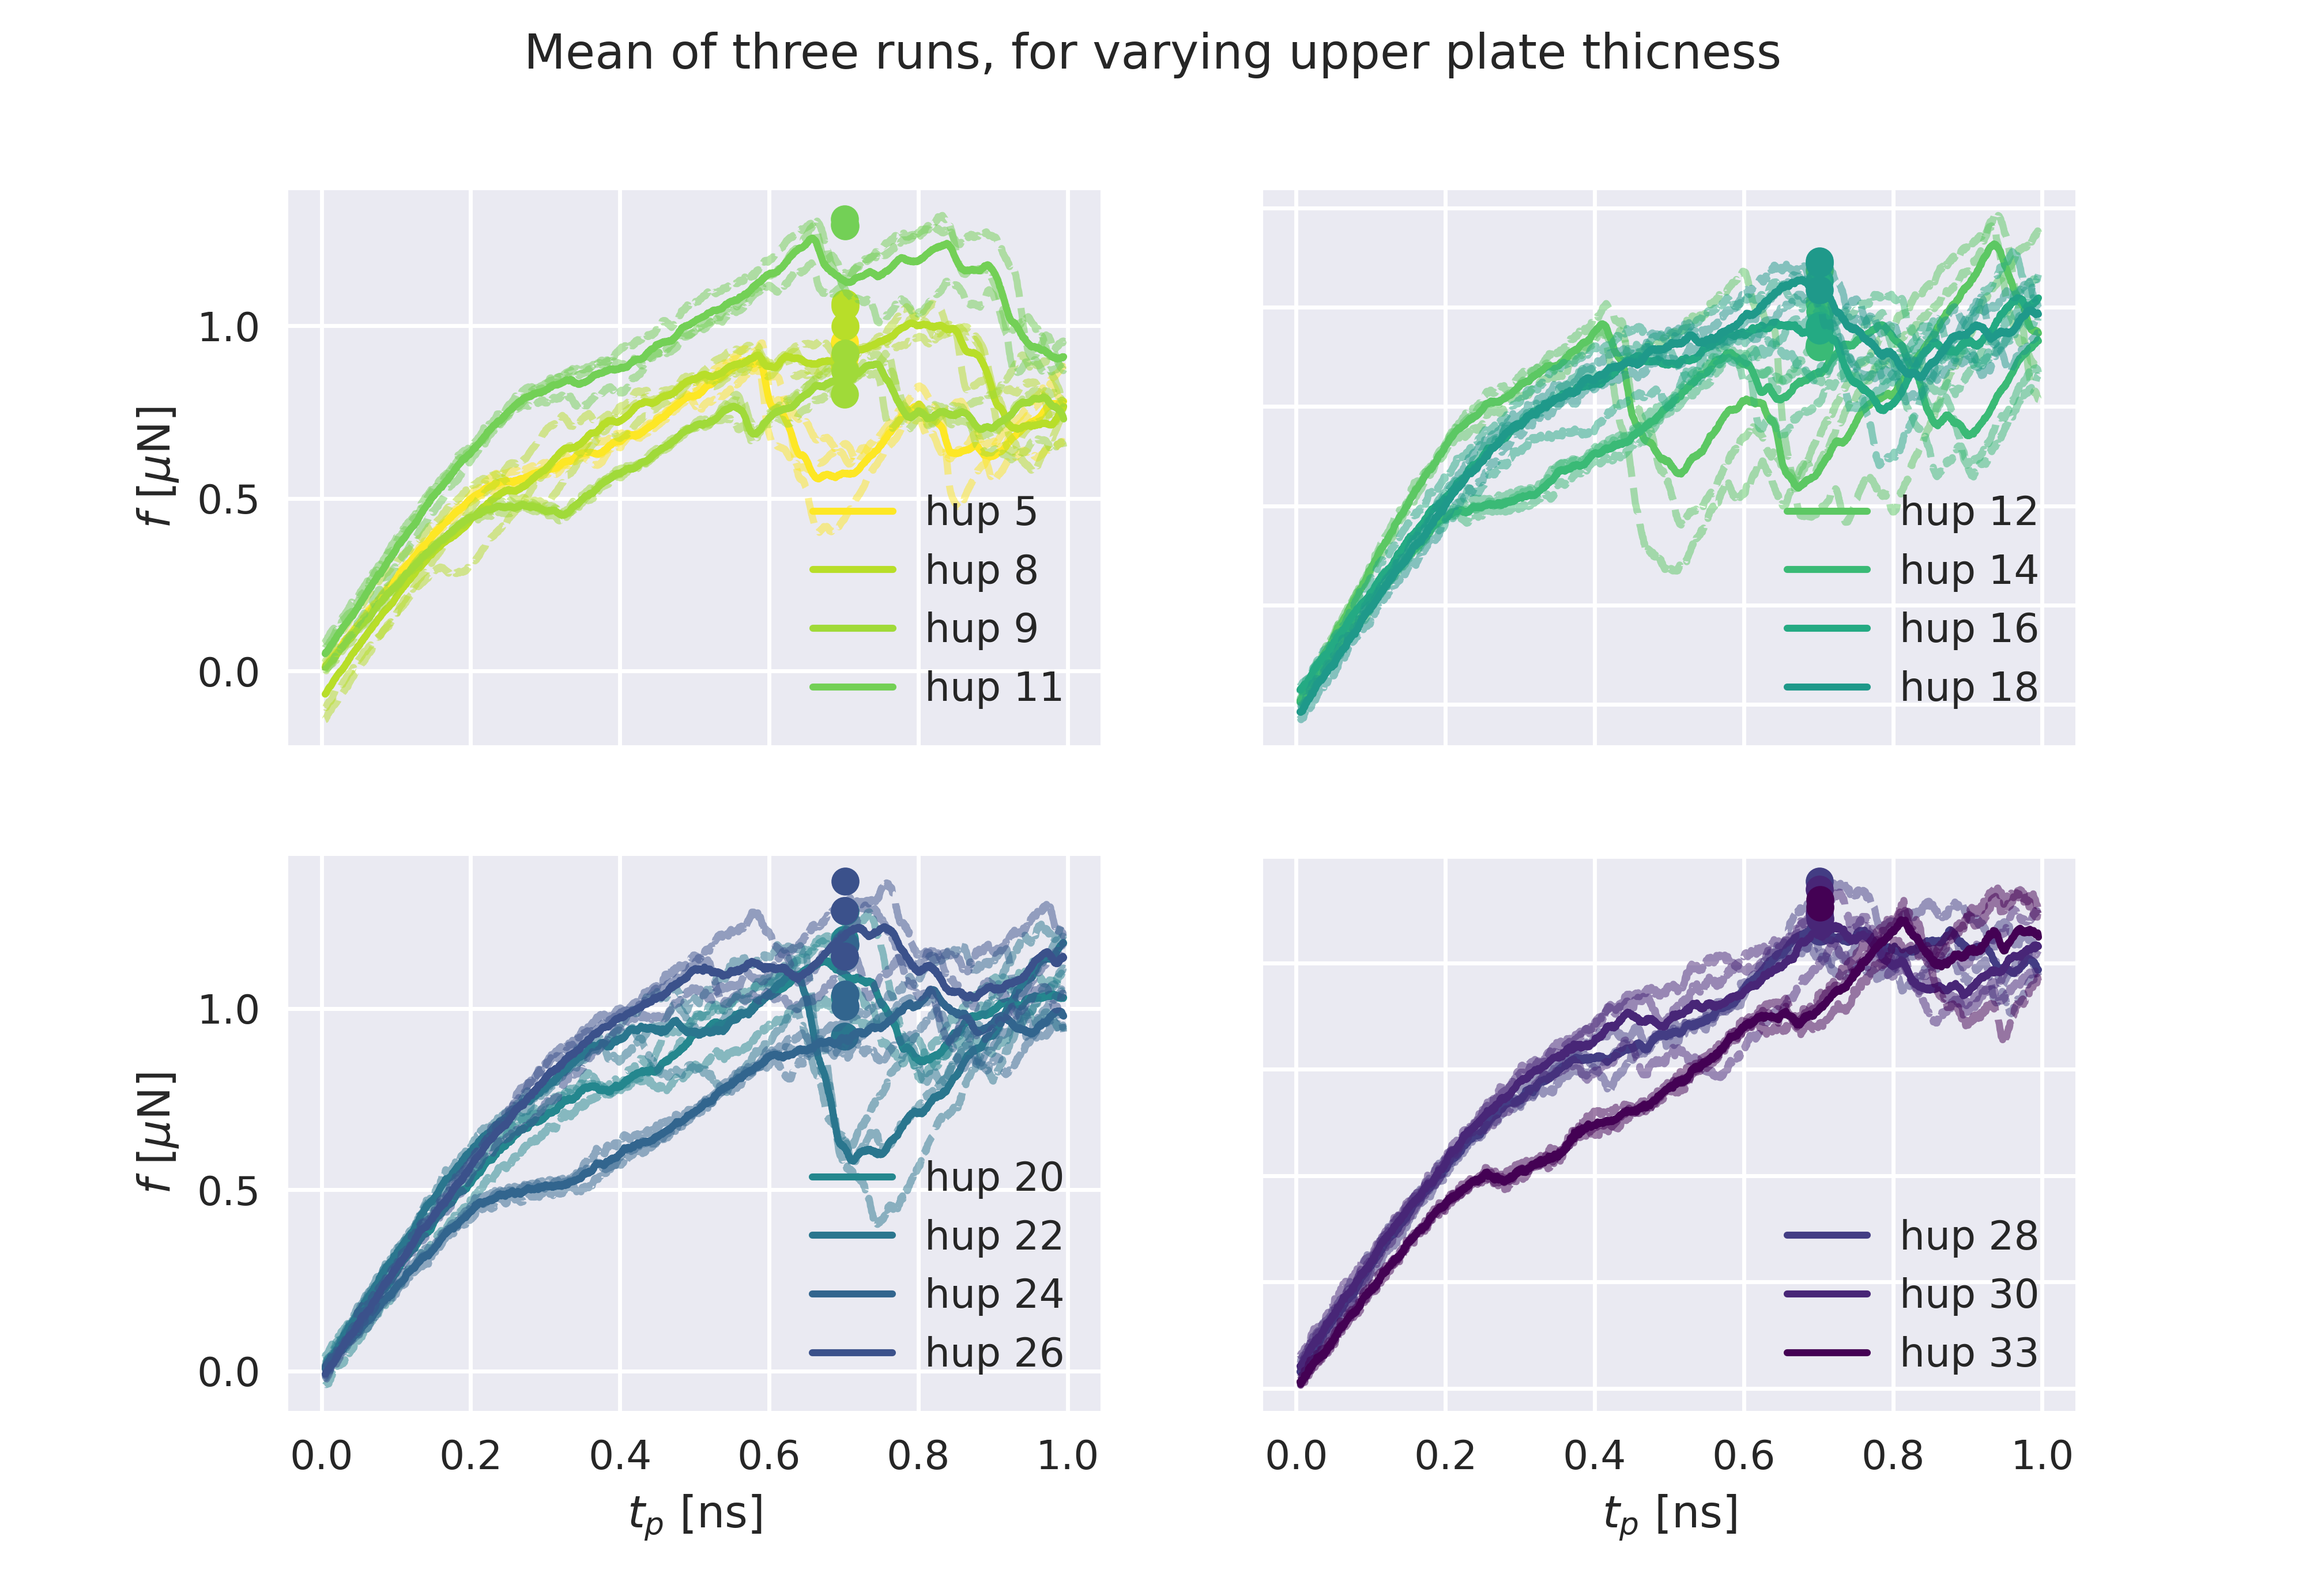
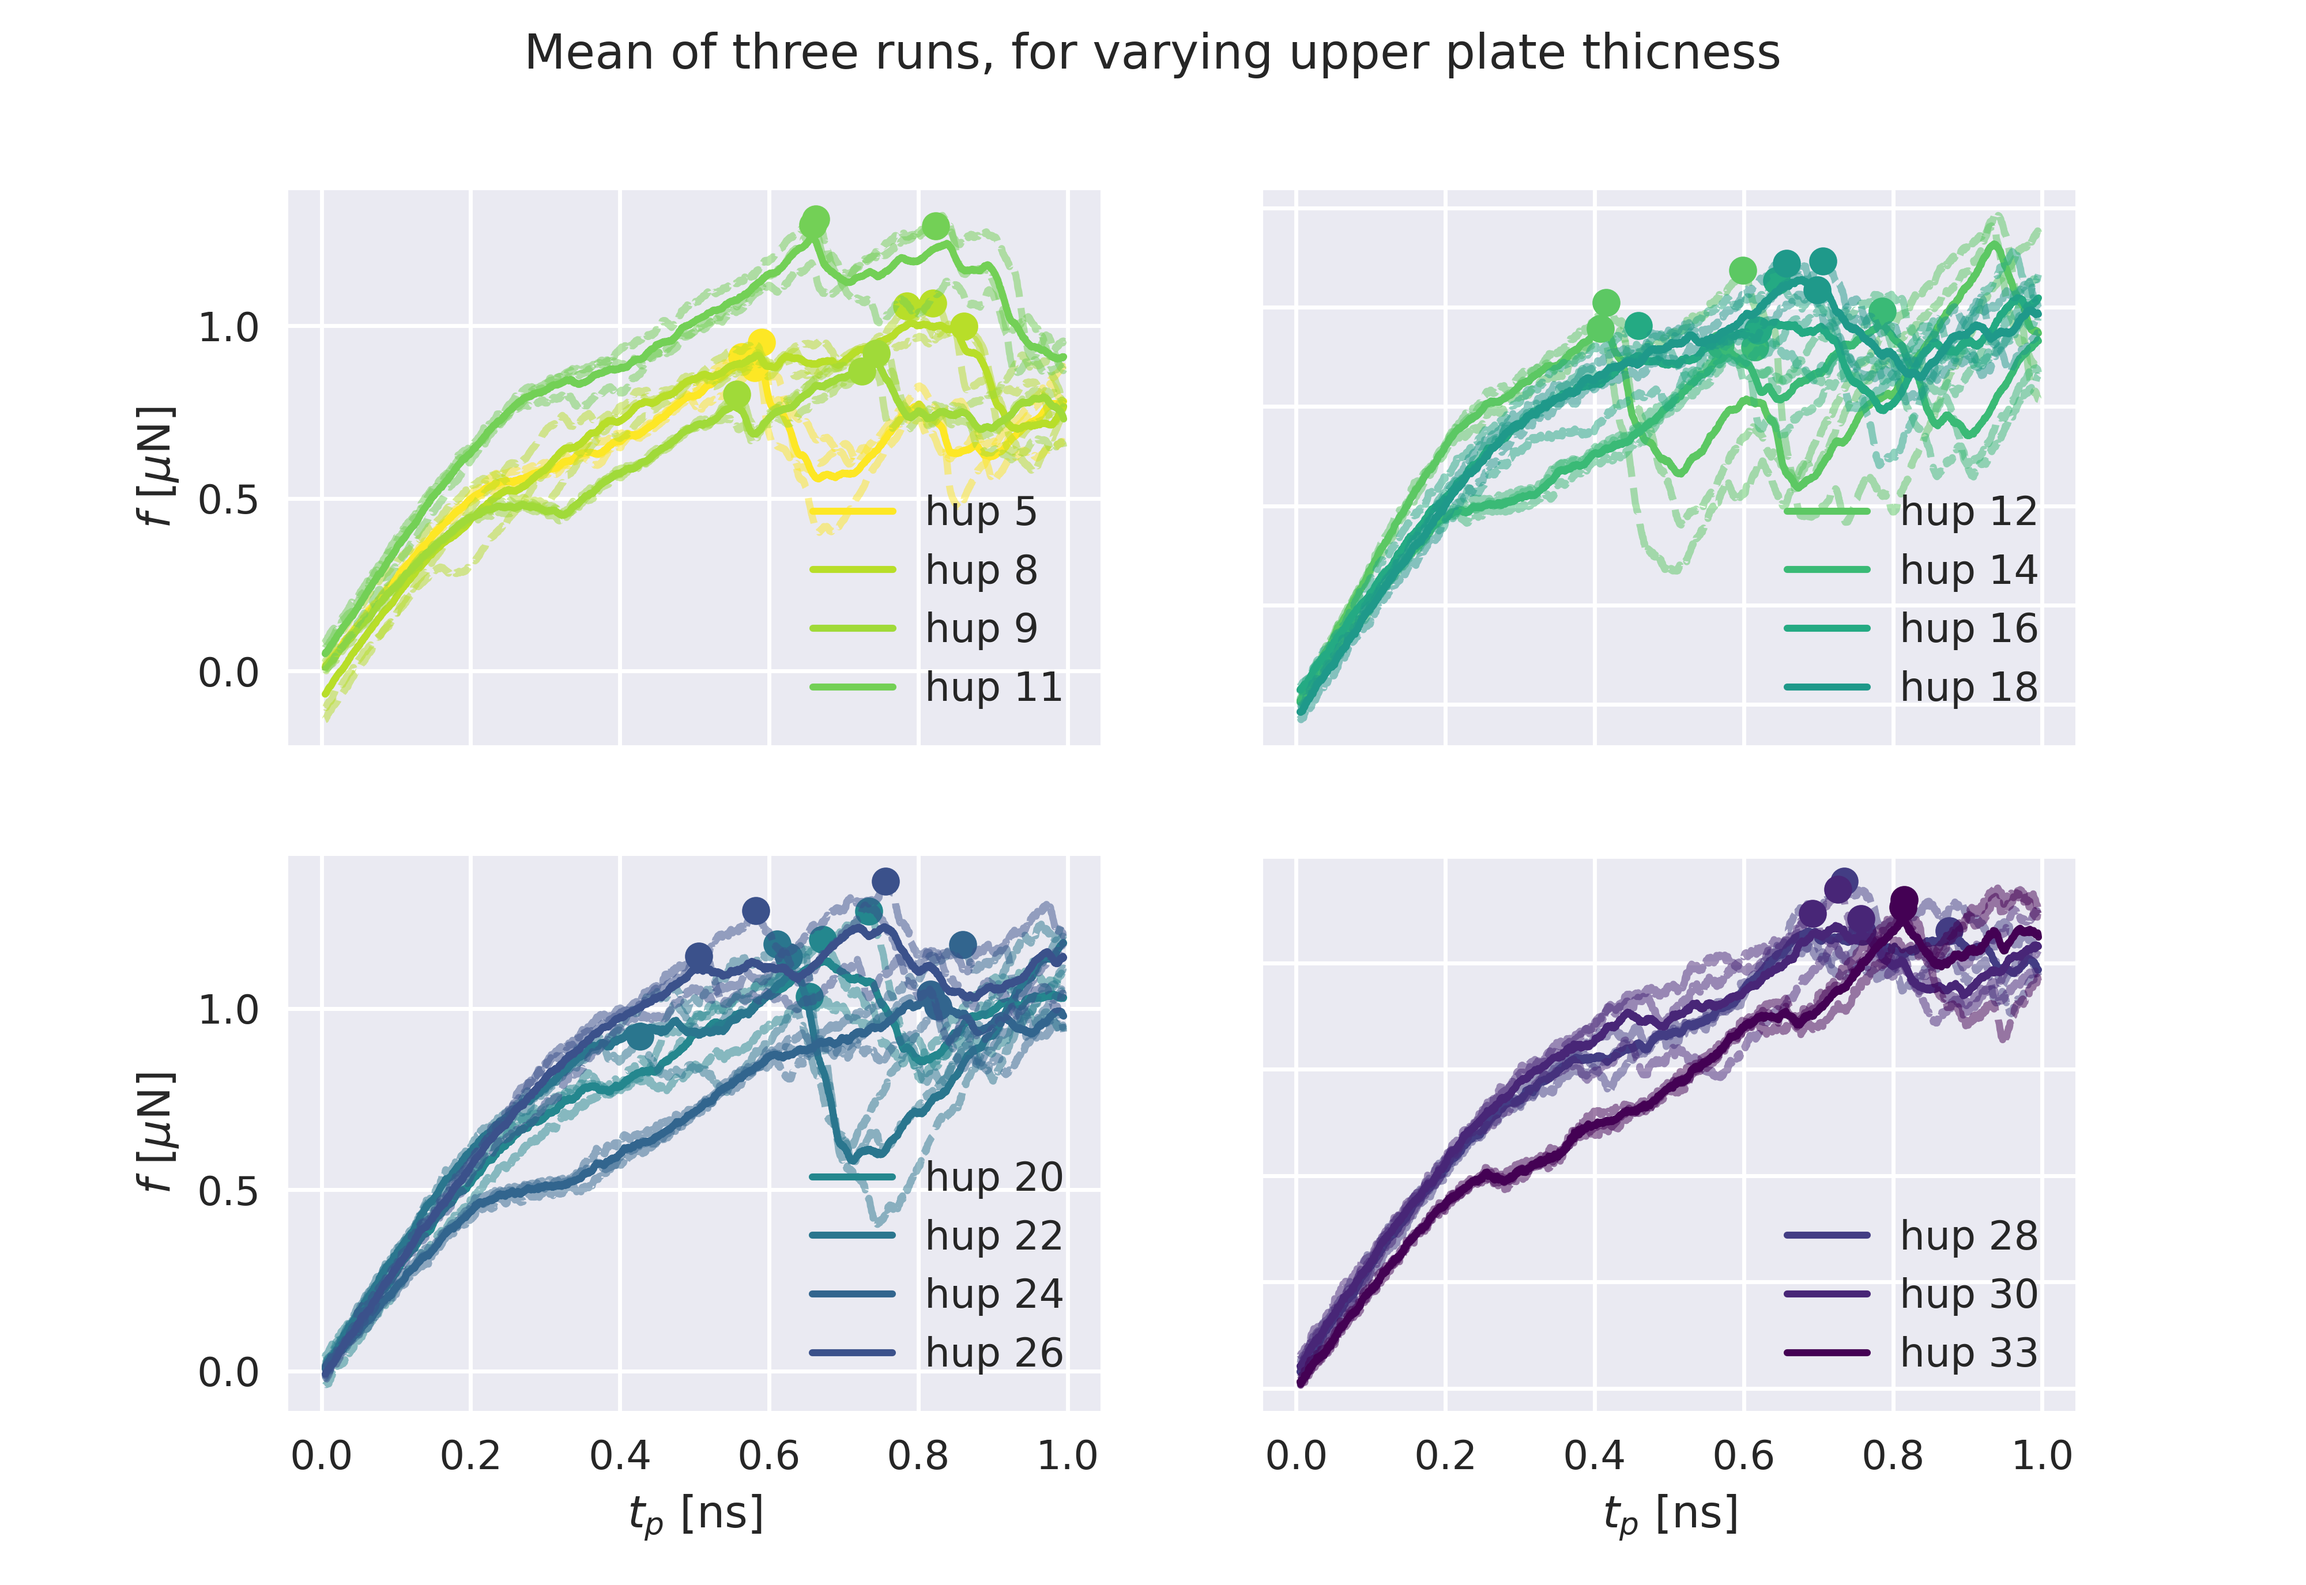
removed ps to ns convert. was ns all the time

diff --git a/python/post/post_utils.py b/python/post/post_utils.py
@@ -272,8 +272,8 @@ def extract_load_curves(logfile, delta=None, init_time=0, window=1,
     f_ms.write(header_max_static)
 
     #for i, logfile in enumerate(logfiles):
-    push_time = init_time +  delta   # moment when we start pushing
-
+    #push_time = init_time +  delta   # moment when we start pushing
+    push_time = 0
     # read log file
     log_obj = File(logfile)
 

diff --git a/python/plot/plot_load_curves.py b/python/plot/plot_load_curves.py
@@ -58,7 +58,7 @@ def load_max_static(temp, vel, force, orientation, grid, template_lc, template_m
         for seed in seeds:
             if str(seed) in str(file):
                 time, ms = loadtxt(file)
-                ms_all.append((time/1000,ms))
+                ms_all.append((time,ms))
 
     #mean_static = mean(ms_all, axis = 0)
     return ms_all#, mean_static
